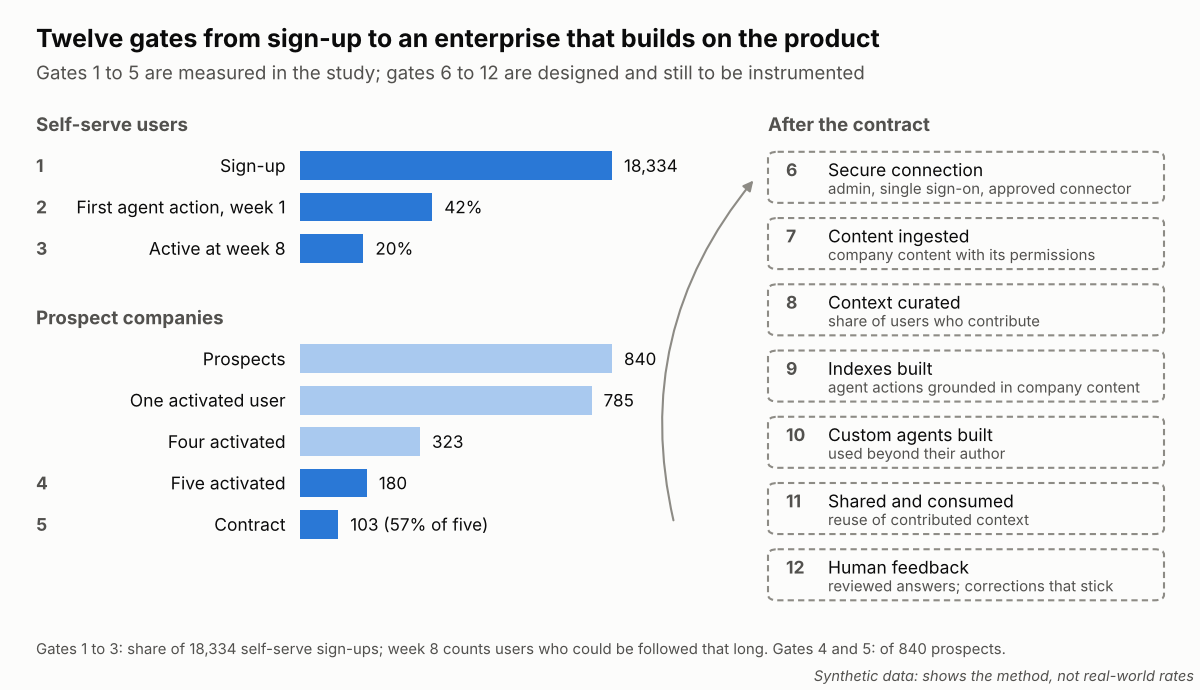
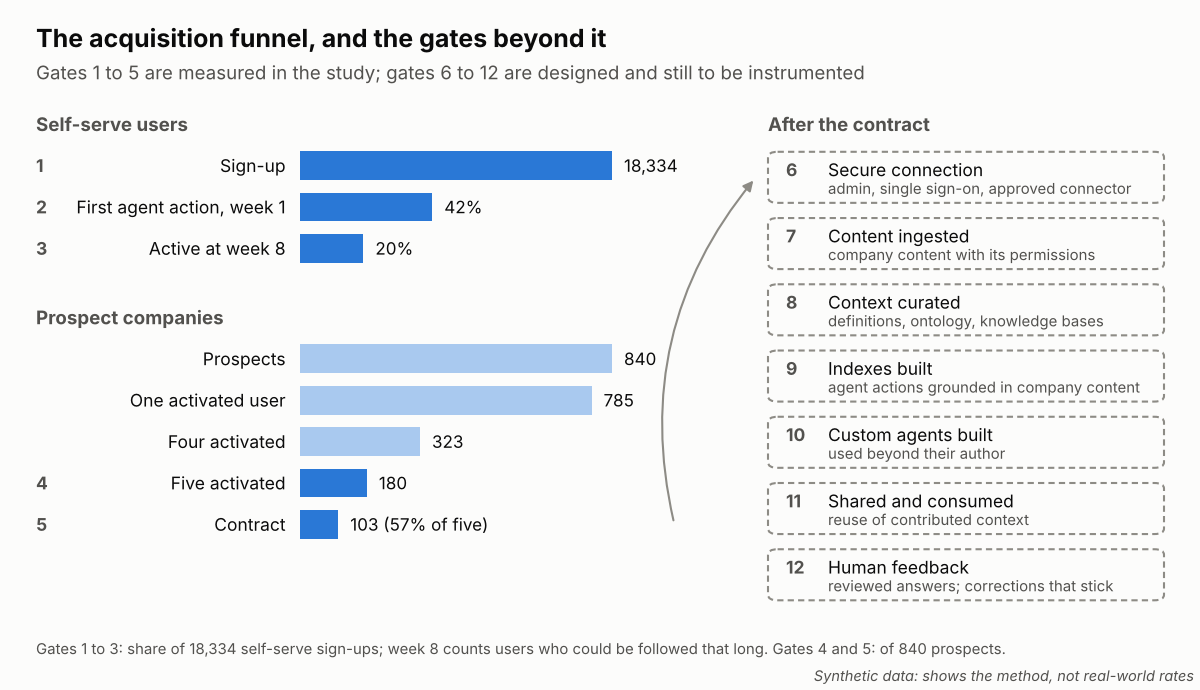
Define context curation and name the A/B tests in the write-up
Gate 8 now covers business definitions, ontologies and knowledge bases,
measured by coverage of the most-used terms with an approved definition.
The lifecycle chart is retitled as the acquisition funnel and moves to
section 3; section 7 names its experiments as A/B tests.

Claude-Session: https://claude.ai/code/session_01MKijBcGuc5BL7f85fvibV2

Changed region(s): [[0.0308, 0.0304, 0.74, 0.0913], [0.6783, 0.4565, 0.925, 0.487]]

diff --git a/docs/a-sign-up-isnt-a-signal.md b/docs/a-sign-up-isnt-a-signal.md
@@ -89,6 +89,8 @@ Of 18,334 self-serve sign-ups, 42% completed an agent action in their first week
 
 Weekly sign-ups grew from about 490 to about 1,350, and the share arriving through a share or invite rose from 14% in week 0 to nearly 40% by week 14. Weekly active users grew from 633 to about 10,900 by week 18, and the north star from 306 to 7,433. Each weekly cohort activated at 39 to 45% and retained 19 to 23% at week 8: steady, because the synthetic product does not change over time.
 
+![The acquisition funnel, and the gates beyond it](images/13-lifecycle-gates.png)
+
 ### Activation is an action
 
 Users who completed an agent action in their first week retained at 43% at week 8 (7,483 users), against 14% for those who only asked questions (7,835 users), and were active in 4.9 of their first 8 weeks against 2.9. Breadth matters too: users who connected three or more apps in their first week retained at 48%. Both findings are observational, since high-intent users both act and stay; the onboarding test in section 7 separates cause from correlation.
@@ -152,7 +154,7 @@ The first experience must deliver value without company data: public research, c
 
 ### Context curation
 
-Content becomes useful to agents only when someone gives it meaning. Curating a space for a topic, describing datasets and fields so a term means the same thing in every answer, scoping a custom agent's instructions and knowledge, and encoding a team's procedure as a reusable workflow are the actions that build a company's context. They compound: one person's curated space improves every colleague's answers.
+Content becomes useful to agents only when someone gives it meaning. Curating a space for a topic, describing datasets and fields so a term means the same thing in every answer, scoping a custom agent's instructions and knowledge, and encoding a team's procedure as a reusable workflow are the actions that build a company's context. They compound: one person's curated space improves every colleague's answers. Three kinds of context matter most: definitions that fix what a term means, an ontology that maps how entities, relationships and hierarchies connect, and knowledge bases that gather authoritative content. Without them, agents answer fluently from the wrong meaning.
 
 ### Collaborative contribution and consumption
 
@@ -160,7 +162,7 @@ A healthy account has both contributors and consumers. The measure of contributi
 
 ## 6. The lifecycle funnel and the gates we would add
 
-The funnel measured in this study runs from a sign-up to a contract. For an AI workspace, the contract is the midpoint. The lifecycle continues as a company connects, curates and builds, and each stage needs a gate: a defined event that marks passage, a metric, and an owner.
+The funnel measured in this study runs from a sign-up to a contract. For an AI workspace, the contract is the midpoint. The lifecycle continues as a company connects, curates and builds, and each stage needs a gate: a defined event that marks passage, a metric, and an owner. The chart in section 3 shows all twelve.
 
 ### The gates measured today
 
@@ -174,7 +176,7 @@ The funnel measured in this study runs from a sign-up to a contract. For an AI w
 
 6. **Secure connection.** An admin takes ownership of the workspace, turns on single sign-on and approves the first connector to a company system. Measured by weeks from contract to first approved connector. Owned by the account team with the customer's IT.
 7. **Content ingested.** Approved company content is brought in with its permissions. Measured by the share of deployed companies with content from at least one company system.
-8. **Context curated.** Spaces, definitions and descriptions exist for the company's important topics. Measured by the share of active users who contribute context.
+8. **Context curated.** The company establishes what its terms mean and how its things relate: a shared vocabulary of business definitions, an ontology of entities, relationships and hierarchies, and knowledge bases of authoritative content organized in spaces. This lets an agent answer "bookings by region" the way finance means it. Measured by the share of the company's most-used terms with an approved definition, and the share of active users who contribute context.
 9. **Indexes built.** Company content is indexed and grounds agent answers. Measured by the share of agent actions grounded in company content.
 10. **Custom agents built.** Teams build agents and workflows scoped to their own work. Measured by custom agents with active users beyond their author.
 11. **Shared and consumed.** Context and agents are reused across the company. Measured by agent actions by others that draw on contributed context.
@@ -182,11 +184,9 @@ The funnel measured in this study runs from a sign-up to a contract. For an AI w
 
 Gates 6 to 12 are hypotheses. The expectation is that they predict renewal and expansion better than seat counts, and the first job of the instrumentation is to test that. They also change who acts: individuals pass the early gates on their own, while the later gates need admins, curators and teams, so the growth motion shifts from individual incentives to account programs.
 
-![Twelve lifecycle gates: five measured, seven designed](images/13-lifecycle-gates.png)
+## 7. A/B tests we would run, by signpost
 
-## 7. Experiments we would run, by signpost
-
-Each test begins from a signpost, the observed state that makes the test worth running, and states the hypothesis, the design and the decision rule. Tests on sharing, onboarding for work sign-ups and sales outreach are randomized by company, because colleagues talk and a test inside one company leaks. In the simulated outreach test, splitting users inside each company estimated less than half the true effect.
+Each of these is an A/B test against a control or holdout. Each begins from a signpost, the observed state that makes the test worth running, and states the hypothesis, the design and the decision rule. Tests on sharing, onboarding for work sign-ups and sales outreach are randomized by company, because colleagues talk and a test inside one company leaks. In the simulated outreach test, splitting users inside each company estimated less than half the true effect.
 
 1. **Reward programs.** Signpost: a company without a contract where colleagues are sharing. Hypothesis: rewarding the recipient's first agent action, or both sides, raises activated recipients per share at acceptable cost. Design: no reward against initiator, recipient and two-sided rewards, all stage-aware. Primary metric: activated recipients per 1,000 shares; secondary: companies reaching five. Guardrails: cost per activated user and self-referral. About 8,500 same-company shares per arm detect a rise from 4.8% to 5.8%.
 2. **Onboarding to a first agent action.** Signpost: a new user in their first week. Hypothesis: steering users to an agent action raises week-8 retention, not only activation. Primary metric: week-8 retention and the north star. About 2,900 users per arm detect a rise from 20% to 23%.
